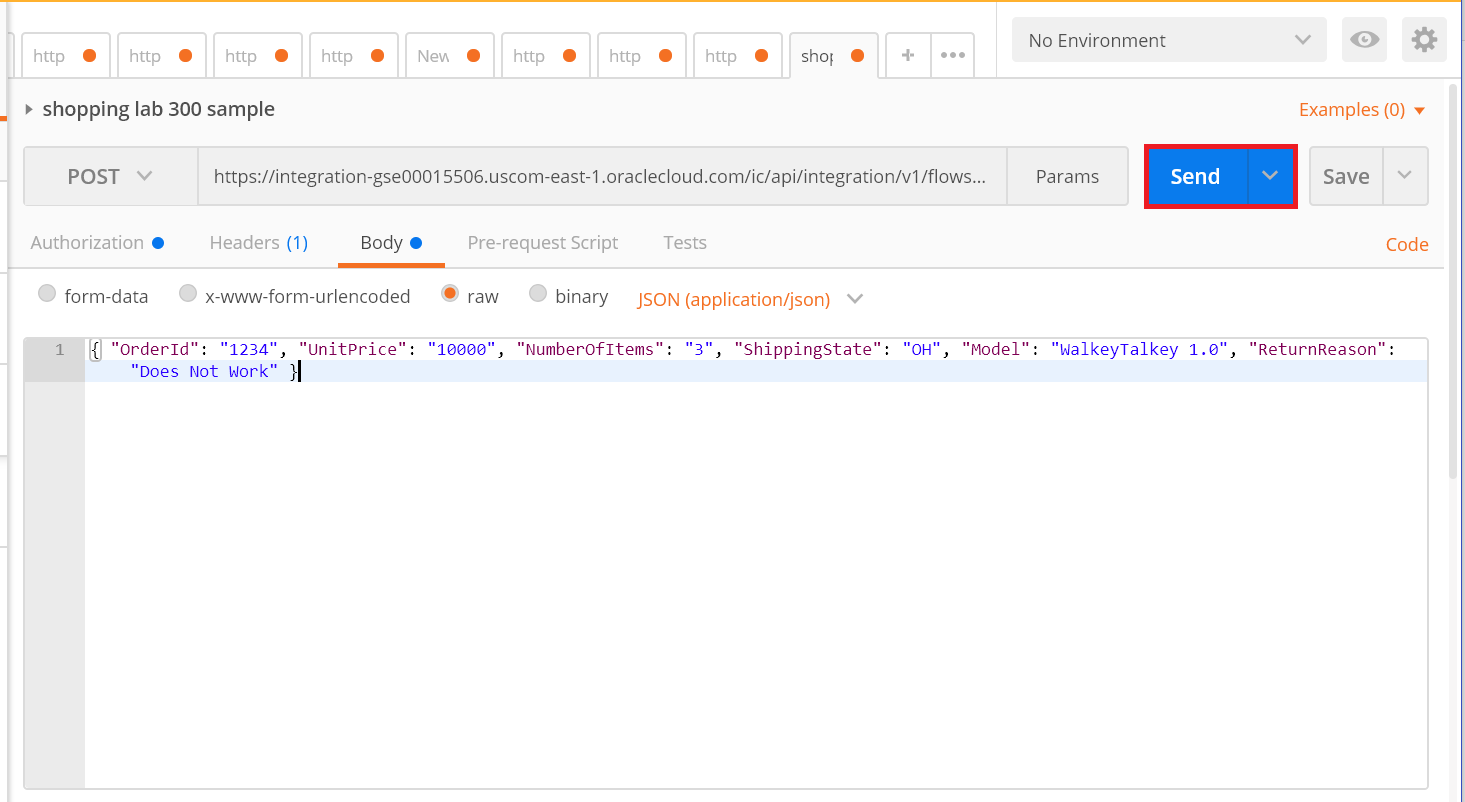
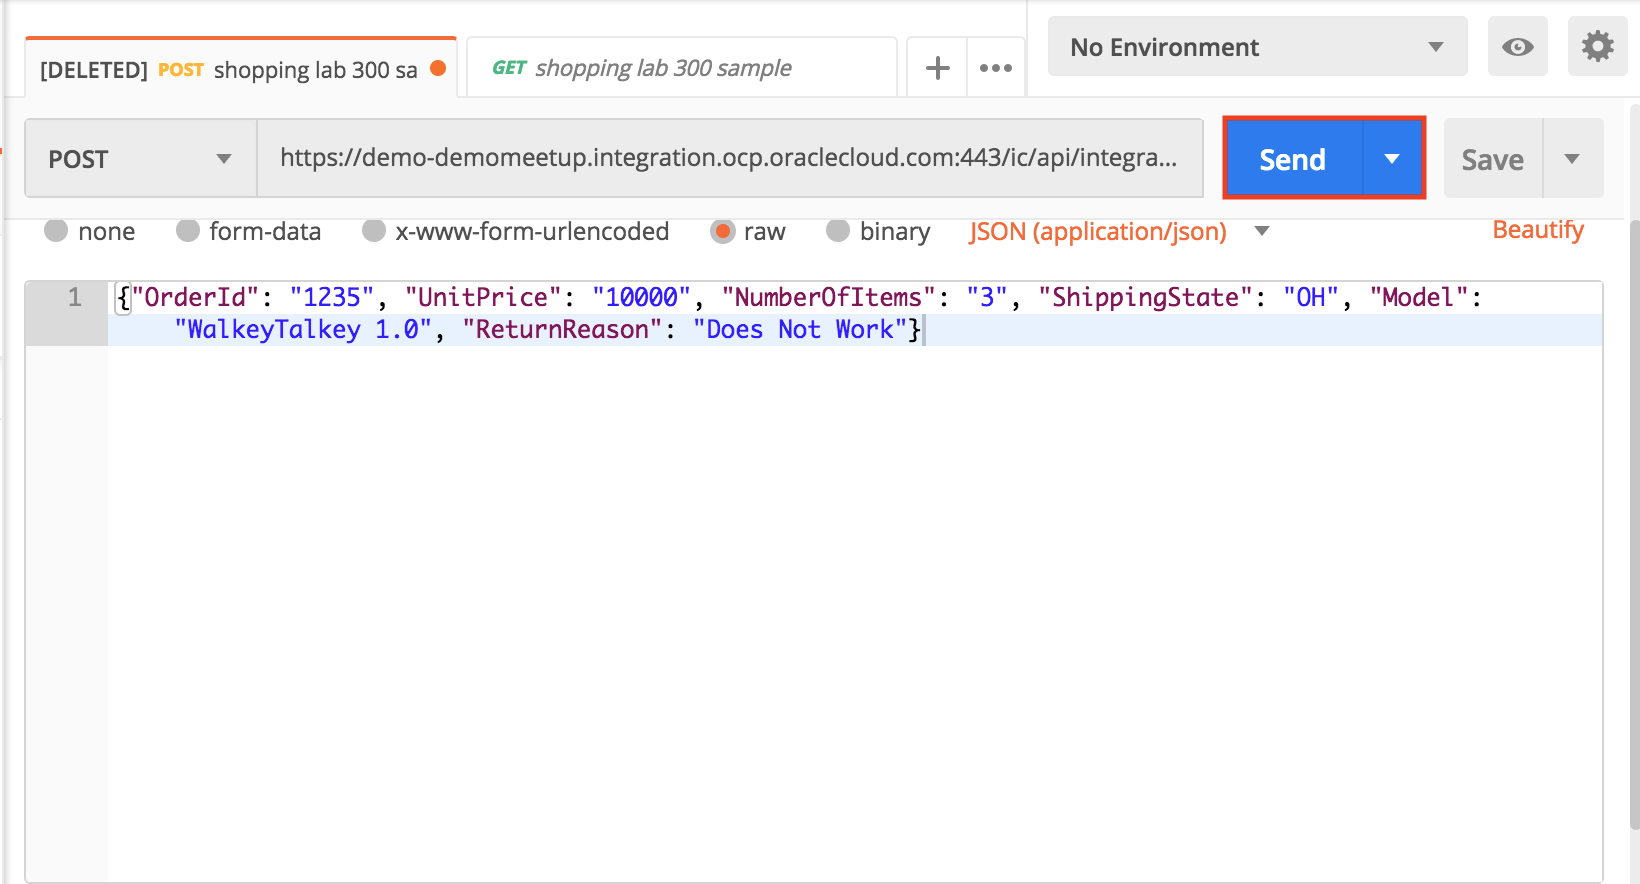
revised v1.0

Changed region(s): [[0.0, 0.0, 1.0, 1.0], [0.6451, 0.0312, 0.7986, 0.0623]]

diff --git a/ics300.md b/ics300.md
@@ -90,7 +90,7 @@ _Now we will add two conditional branches in the same flow and test it out_
 
 **1.11**Next we need to select the input paramater.Drill down and select **response** field and drop on empty box as shown below
 
-![](images/300/img110.png)
+![](images/300/img111.png)
 
 **1.12**Finally provide the expression parameter as shown below and click on **Validate** button.Your overall page should look like this 
 
@@ -115,11 +115,17 @@ _Now we will add two conditional branches in the same flow and test it out_
 
 ![](images/300/img117.png)
 
+![](images/300/img117_1.png)
+
 **1.18** Now go back to Main page and click on **Actions** Tab this time.Select **Return** Item as shown below
 
 ![](images/300/img118.PNG)
 
-**1.19** Next drag and drop selected Item on the same swimlane.Your overall setup should look like this.This completes our one - **if else** logic
+**1.19** Next drag and drop selected Item on the same swimlane. Since we are alredy set up map previously (1.14), delet the newly appered one.
+
+![](images/300/img119_1.PNG)
+
+Your overall setup should look like this.This completes our one - **if else** logic
 
 ![](images/300/img119.PNG)
 
@@ -167,6 +173,8 @@ _Now we will add two conditional branches in the same flow and test it out_
 
 ![](images/300/img130.png)
 
+![](images/300/img130_1.png)
+
 **1.31** Now we are back to the Inegration Page,from here select **Return** action item as shown
 
 ![](images/300/img131.png)
@@ -179,6 +187,8 @@ _Now we will add two conditional branches in the same flow and test it out_
 ![](images/300/img133.png)
 
 **1.34** A new mapper page shows up.Update the response parameters and Click **Validate** to update the same.Once done click **Close** to exit the same.
+
+![](images/300/img134.png)
 
 ![](images/300/img134_1.png)
 
@@ -194,11 +204,19 @@ You should see your _New_ integration in list of _Integrations_
 
 ![](images/200/image047.png)
 
-**1.2** On the **Activate Integration ?** popup window, select **Enable Tracing**, then **Include payload**, then click on **Activate**
+**1.37** On the **Activate Integration ?** popup window, select **Enable Tracing**, then **Include payload**, then click on **Activate**
 
 ![](images/300/img144.png)
 
 ![](images/300/img145.png)
+
+**1.38** Once your integration is activated, select Cogwheel type of button (1.) and select the givem url.
+
+![](images/300/img145_1.png)
+
+**1.39** You will be redirected to a new page. Coppy Endpoint URL and save it for later. You are going to use it in Postman for testing your request.
+
+![](images/300/img145_2.png)
 
 ### Testing your Integrations
 
@@ -208,21 +226,37 @@ Testing the activated integration can be done using multiple tools and depends o
 
 ![](images/200/image066.png)
 
-**1.2** Click on the request tab as shown below  
+**1.2** Click on the Collection tab as shown below  
 
 ![](images/300/img146.png)
 
+Provide the name for your collection as it shown below
+
+![](images/300/img146_1.png)
+
+Click on the AddRequest tab as shown below
+
+![](images/300/img146_2.png)
+
+
+
 **1.3** Here provide the name of the Integration and optional description and click **Save**
 
-![](images/300/img147_1.png)
+![](images/300/img147.png)
 
-**1.4**A new page comes up.Click on **Authorization Tab**  followed by end point url as shown below .
+**1.4**A new page comes up.Click on **Authorization Tab**. For Authorization type, select Basic Auth. Provode the credentials that you used to sign in to Oracle Cloud.
 
 ![](images/300/img148.png)
 
-**1.5** Next we need to set the request parameter.Click on **Body** section and update the request json as shown below 
+**1.5** Next we need to set the request. 1. Select POST method and copy paste the Endpoint URL that you saved earlier (from 1.39). 2. Click on **Body** section and update the request json as shown below 
 
-![](images/300/img149_1.png)
+```json
+{"OrderId": "1235", "UnitPrice": "10000", "NumberOfItems": "3", "ShippingState": "OH", "Model": "WalkeyTalkey 1.0", "ReturnReason": "Does Not Work"}
+```
+
+Make sure you select JSAN(applicatiom/json) format (5)
+
+![](images/300/img148_1.png)
 
 **1.6** Click on Send Button and check the response at bottom.
 
@@ -233,6 +267,10 @@ Testing the activated integration can be done using multiple tools and depends o
 **1.7**Now go back to the Integration Page  and navigate  **Tracking** field as shown below 
 
 ![](images/300/img152.png)
+
+![](images/300/img152_1.png)
+
+![](images/300/img152_2.png)
 
 **1.8** Click on the order instances as shown
 
